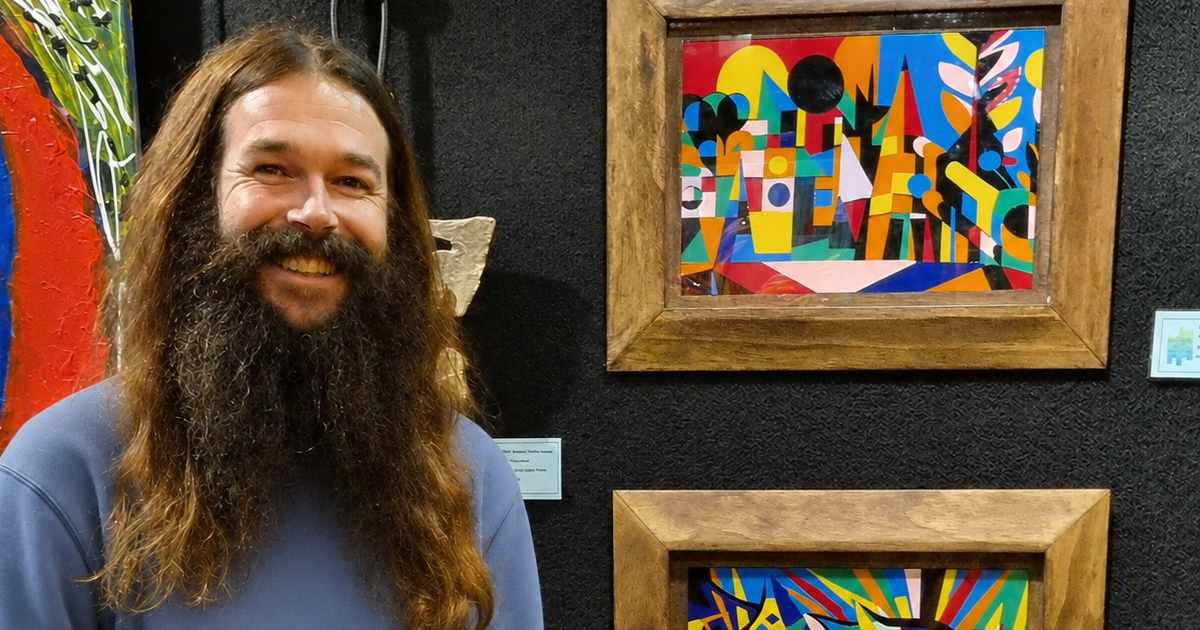
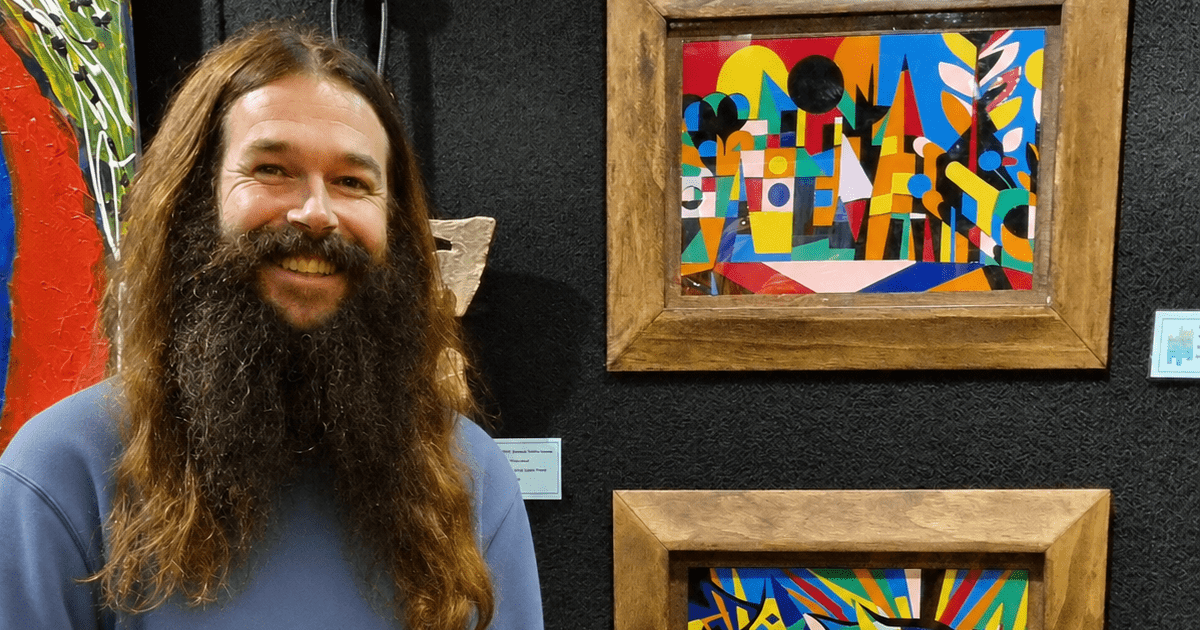
Add sitemap, remove identifier files, update og:image

diff --git a/src/data/play.ts b/src/data/play.ts
@@ -16,7 +16,7 @@ export const posts: PlayPost[] = [
   {
     slug: 'tones-by-halves',
     title: 'Tones by Halves',
-    date: '2026-05-20',
+    date: '2025-08-20',
     excerpt: 'What happens when you take photos, turn them into dots and run them through a press.',
     coverImage: '/play/print-photos/toby-photo.jpg',
     content: [
@@ -53,7 +53,7 @@ export const posts: PlayPost[] = [
         type: 'image-inset',
         src: '/play/print-photos/toby-block.jpg',
         alt: 'The acrylic block used for all the prints in the session',
-        caption: 'A test block itself after a few prints had been made.',
+        caption: 'A test block after a few prints had been made.',
         align: 'left',
       },
       {

diff --git a/public/googlef3f3b0215159cf88.html b/public/googlef3f3b0215159cf88.html
@@ -1,0 +1,1 @@
+google-site-verification: googlef3f3b0215159cf88.html
